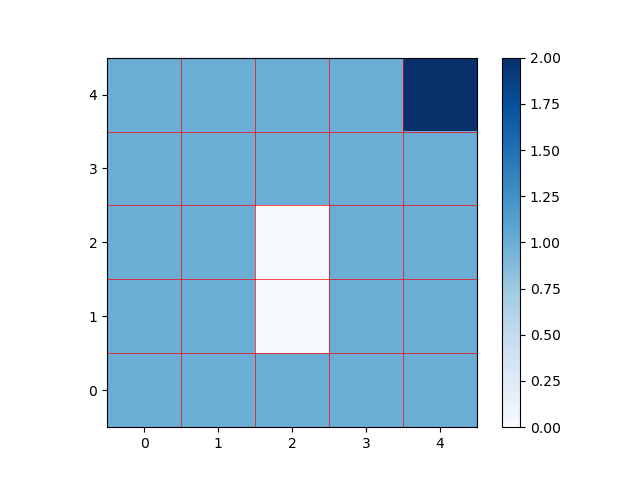
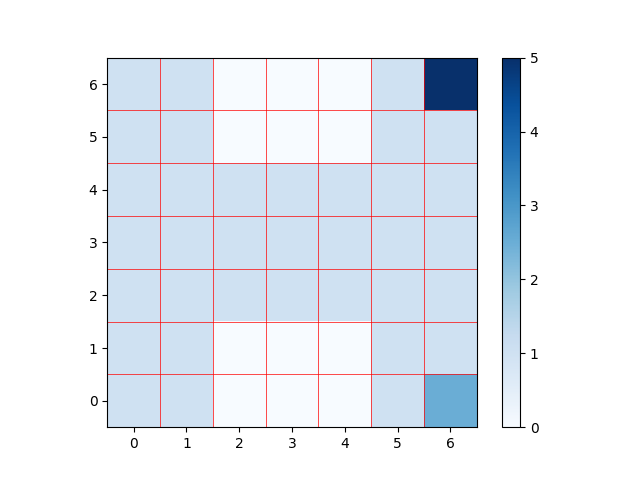
updates

diff --git a/src/frozenlake_mce_irl.py b/src/frozenlake_mce_irl.py
@@ -23,15 +23,14 @@ def setup_mdp(GRID_SIZE, p_slip, avoid_states):
 
     reward = np.ones(world.n_states)
 
-    reward[-1] = 5.0
-    reward[6] = 2.5
+    reward[3] = 2
 
     # Define some obstacles or avoid regions
     for s in avoid_states:
         reward[s] = 0
 
     # set up terminal states
-    terminal = [GRID_SIZE**2-1]
+    terminal = [3]
     # print(world.n_states)
     # print(reward)
     return world, reward, terminal
@@ -42,14 +41,14 @@ def generate_trajectories(world, reward, terminal):
     Generate some "expert" trajectories.
     """
     # parameters
-    n_trajectories = 300
+    n_trajectories = 5
     print("\nNumber of experts: %d\n" %(n_trajectories))
     discount = 0.7
     weighting = lambda x: x**5
 
     # set up initial probabilities for trajectory generation
     initial = np.zeros(world.n_states)
-    initial[0] = 1.0
+    initial[12] = 1.0
 
     # generate trajectories
     value = S.value_iteration(world.p_transition, reward, discount)

diff --git a/src/main.py b/src/main.py
@@ -7,6 +7,7 @@ import trajectory as T
 import solver as S
 import optimizer as O
 import mce_irl as I
+# import frozenlake_mce_irl as I
 
 import numpy as np
 import matplotlib.pyplot as plt
@@ -94,10 +95,10 @@ def sttl_obstacle_avoid(D, goal, avoid_states):
 
 def main():
     # Grid-world setup parameters
-    grid_size = 5 # grid-world size
+    grid_size = 7 # grid-world size
     p_slip = 0.000003 # slip. with probability p_slip, agent chooses other 3 actions. Default 0.3
-    avoid_states = [7, 12]
-    
+    avoid_states = [0, 7, 9, 11] # for 4x4 Frozenlake
+    avoid_states = [2, 3, 4, 9, 10, 11, 37, 38, 39, 44, 45, 46]    
     '''
     Ground-truth MDP reward:
         1. reaching the goal gets a reward of +10
